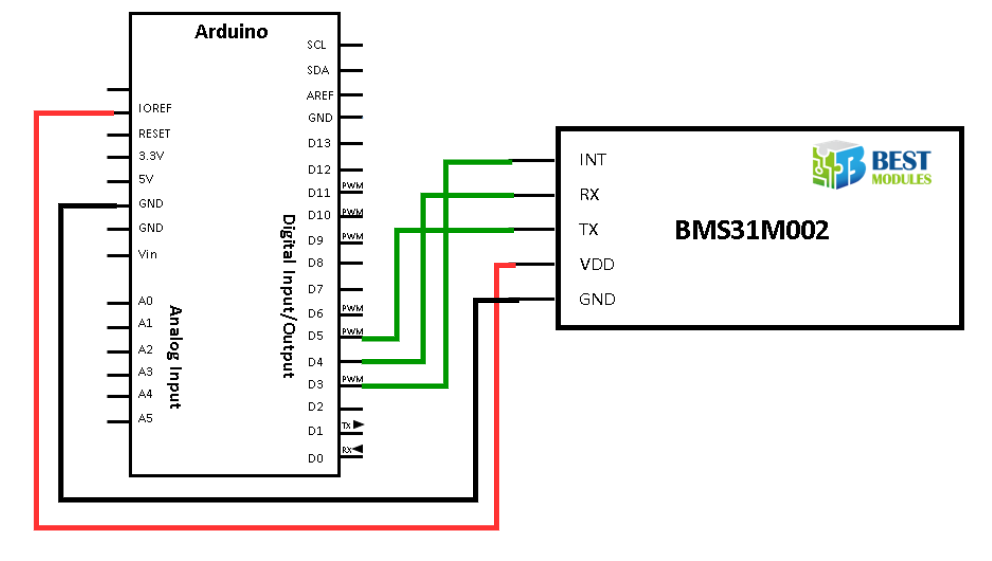
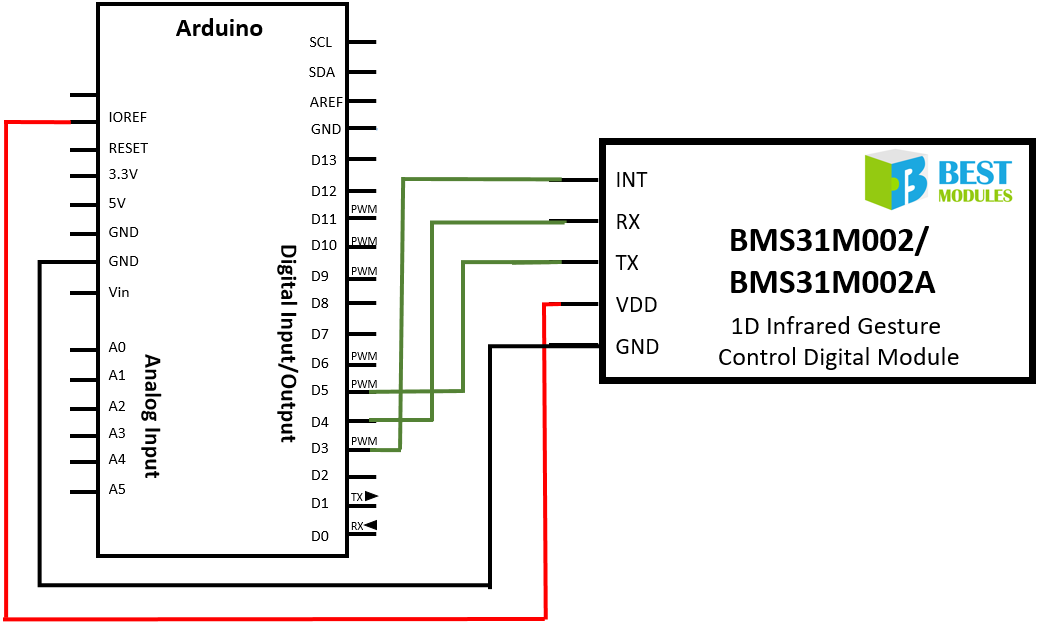
Add files via upload

Changed region(s): [[0.0, 0.0, 1.0, 1.0]]

diff --git a/src/BM32S3021-1.cpp b/src/BM32S3021-1.cpp
@@ -2,7 +2,7 @@
 File:             BM32S3021-1.cpp
 Author:           BEST MODULES CORP.
 Description:      UART communication with the BM32S3021_1 and obtain the corresponding value  
-Version:          V1.0.3   -- 2024-08-16
+Version:          V1.0.4   -- 2025-03-13
 ******************************************************************/
 #include "BM32S3021-1.h"
 /**********************************************************

diff --git a/src/BM32S3021-1.h b/src/BM32S3021-1.h
@@ -2,7 +2,7 @@
 File:             BM32S3021-1.h
 Author:           BEST MODULES CORP.
 Description:      Define classes and required variables
-Version:          V1.0.3   -- 2024-08-16
+Version:          V1.0.4   -- 2025-03-13
 ******************************************************************/
 #ifndef _BM32S3021_1_H_
 #define _BM32S3021_1_H_

diff --git a/README.md b/README.md
@@ -5,7 +5,7 @@
 BM32S3021-1
 ===========================================================
 
-The Best Modules BM32S3021-1 is a 1D infrared gesture control digital module, which uses the UART communication method. This document describes the Arduino Lib function of the BM32S3021-1 and how to install the Arduino Lib. The example demonstrates the function to recognize whether a gesture is swiping left or right with the BMS31M002 modle.
+The Best Modules BM32S3021-1 is a 1D infrared gesture control digital module, which uses the UART communication method. This document describes the Arduino Lib function of the BM32S3021-1 and how to install the Arduino Lib. The example demonstrates the function to recognize whether a gesture is swiping left or right with the BMS31M002/BMS31M002A modle.
 
 #### Applicable types:
 <div align=center>
@@ -14,6 +14,7 @@ The Best Modules BM32S3021-1 is a 1D infrared gesture control digital module, wh
 |:---------:|:----------------------------------------:|
 |BM32S3021-1|1D infrared gesture control digital module|
 |BMS31M002  |Integrated BM32S3021-1 module             |
+|BMS31M002A |Integrated BM32S3021-1 module             |
 
 </div> 
 
@@ -43,6 +44,9 @@ Version History
 &emsp;&emsp;- Modify the ranges and default values of some function parameters;  
 &emsp;&emsp;- Perfect example (distanceLearing, getGesture);  
 &emsp;&emsp;- Perfect some function header comments.  
+* **V1.0.4**  
+&emsp;&emsp;- Add applicable models: BMS31M002A;   
+
 License Information
 -------------------
 
